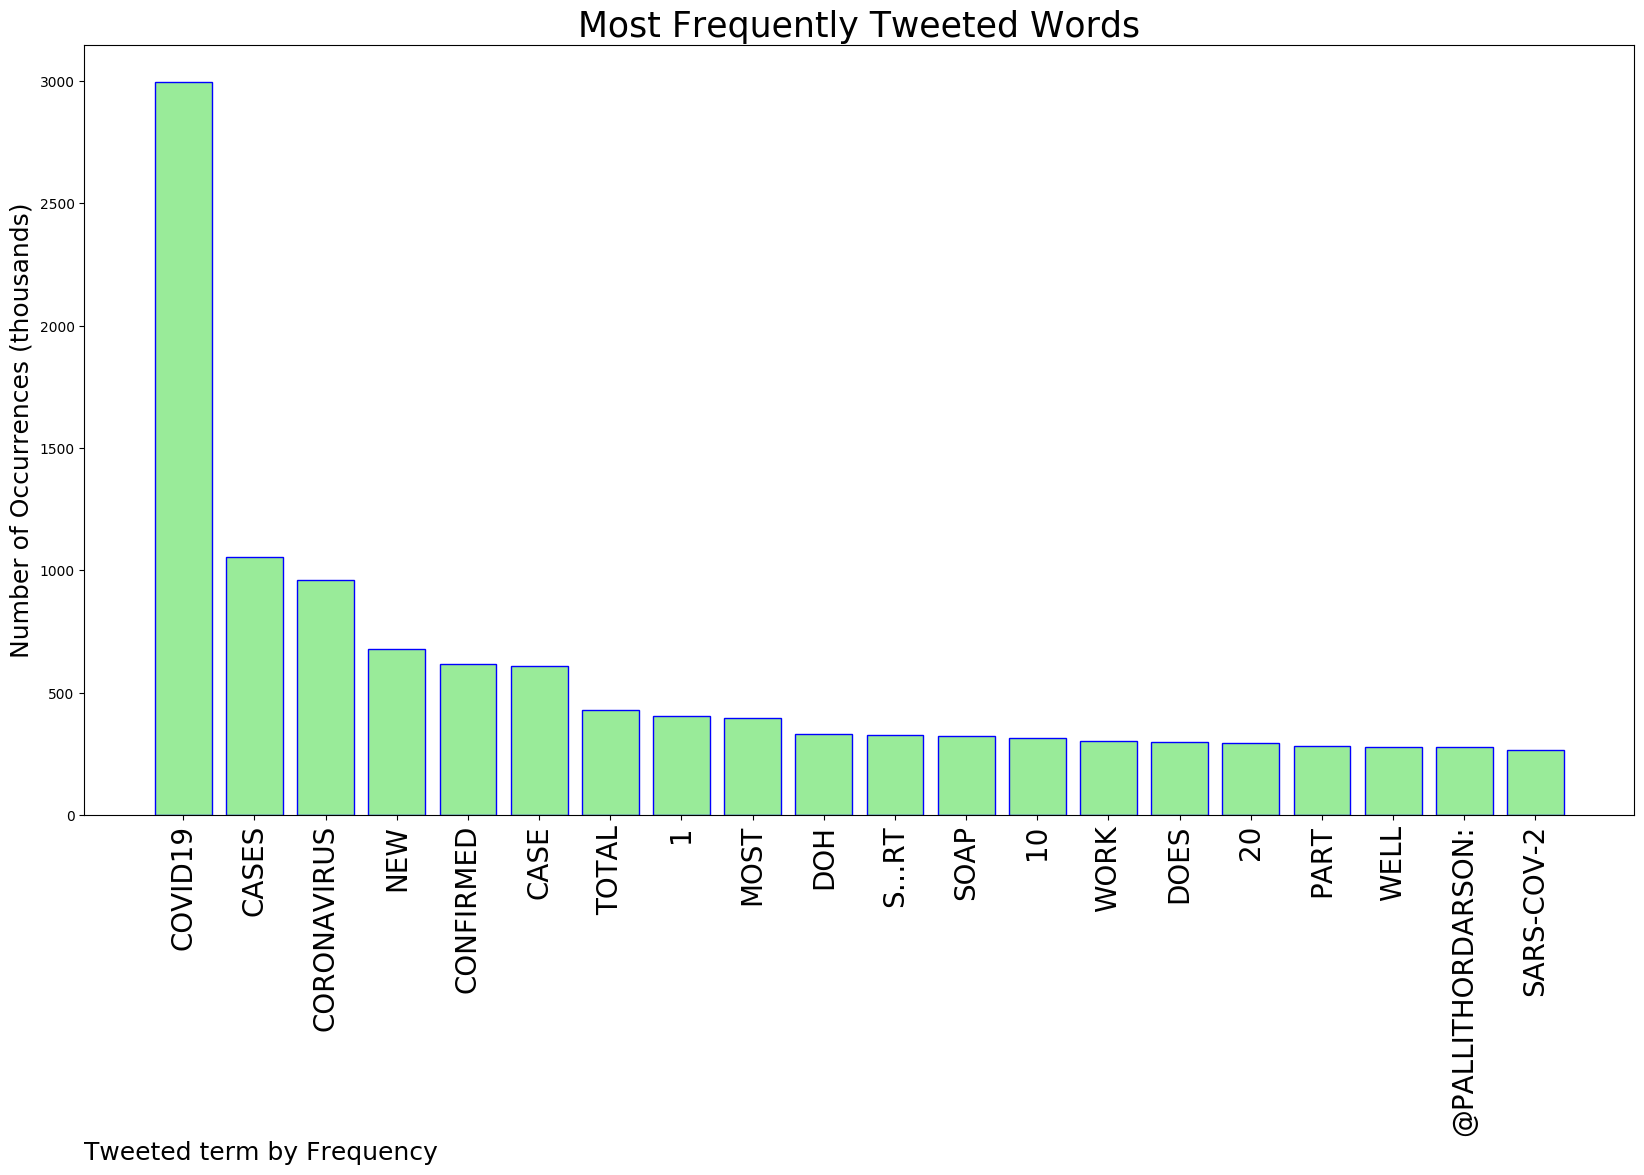
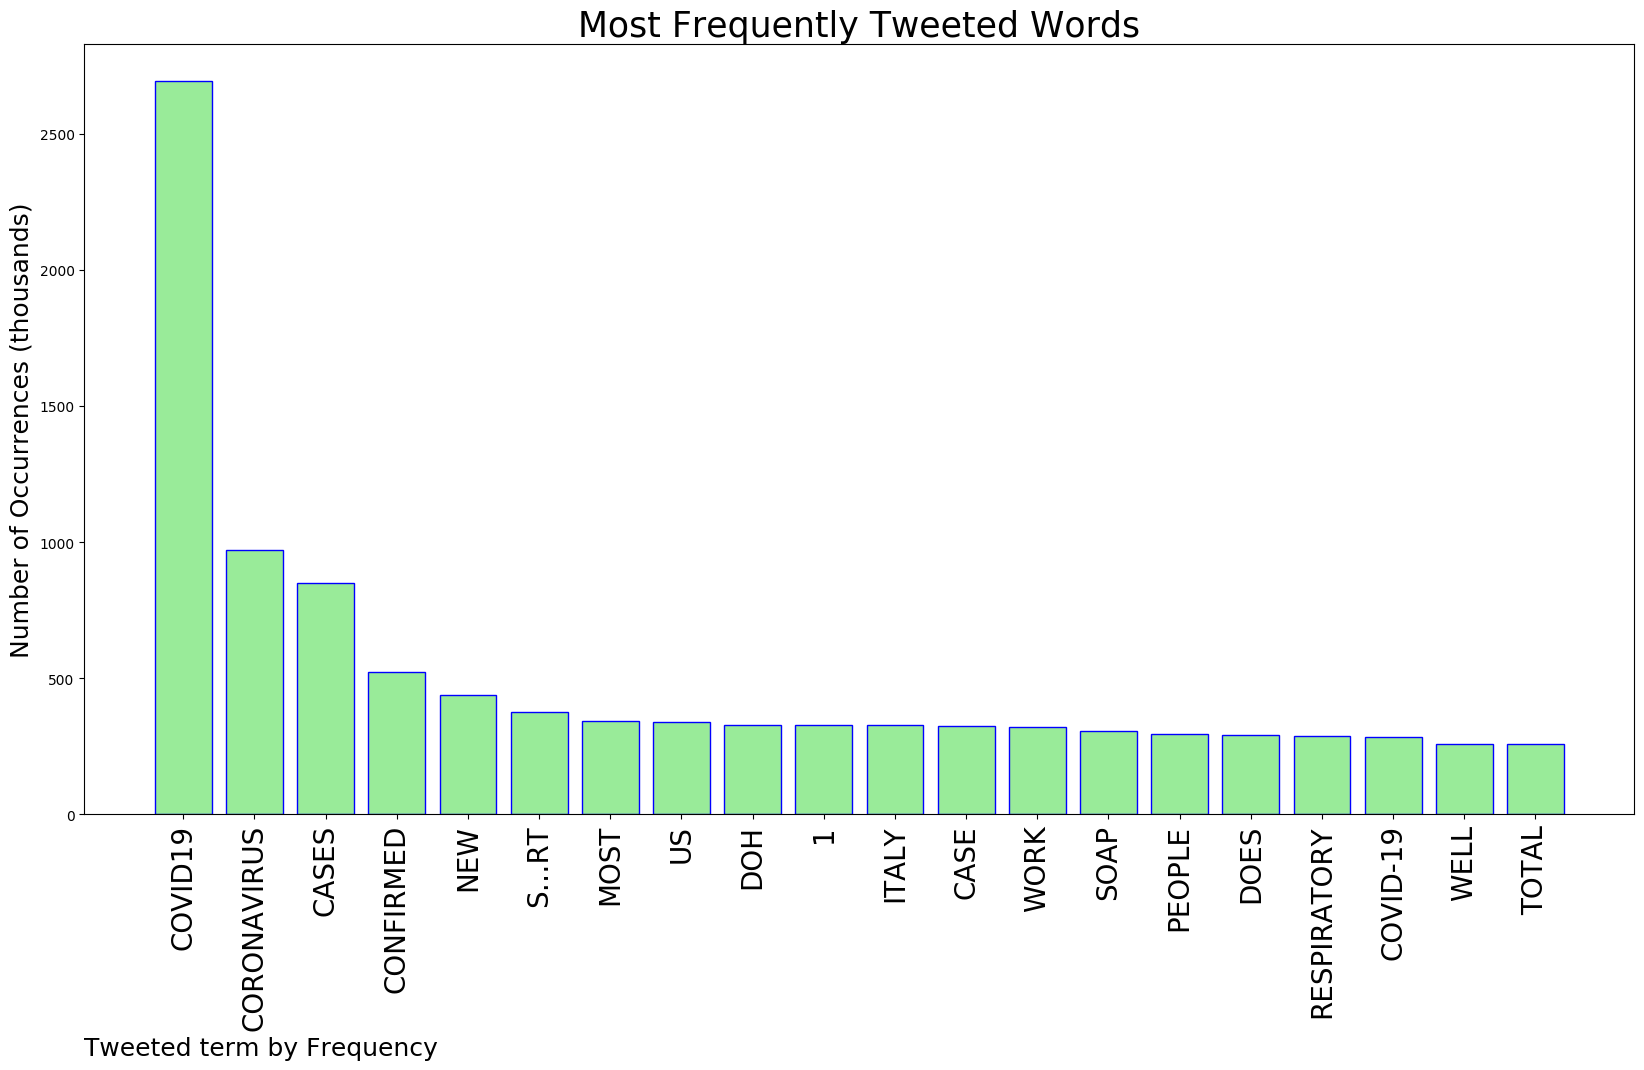
Updating with latest report

diff --git a/README.md b/README.md
@@ -15,22 +15,22 @@
 
 |                **Sample-Tweets**        |
 | :-------------: |
-| Worum es beim Thema #covid19 in den USA wirklich geht: "it seems as if in the midst of this burgeoning crisis, we'r… https://t.co/FR4LfF5THl |
-| RT @jameschau: Favorite moment from my @thechinacurrent interview with Gabriel Leung @gmleunghku?“#COVID19 is not a Chinese, South Korean… |
-| RT @SiouxsieW: If you only learn one thing about #COVID19 today make it this: everyone's job is to help FLATTEN THE CURVE. With thanks to @… |
+| RT @RepDougCollins: During my visit to the @CDC with @realDonaldTrump on Friday, I saw firsthand how the administration and our health offi… |
+| Would be helpful if they added an extra column for 'hangover' to this #COVID2019 #coronavirus #COVID19 https://t.co/YPpP8lzsWQ |
+| RT @ECDC_EU: Today's update:▪ 109 695 cases▪ 3811 fatalitiesEU/EEA/UK:▪ 11 577 cases▪ 396 deathsFind all info: https://t.co/TE7KD9… |
 
-The most popular user is: **simonstrand**
+The most popular user is: **DejvidRizov**
 <div class="alert alert-block alert-danger"> RT @LizSpecht: I think most people aren’t aware of the risk of systemic healthcare failure due to #COVID19 because they simply haven’t run…</div>
 
 ## RELATED METRICS<br>
 | Metric | Value |
 | ------------- | ------------- |
 | #1 Most tweeted to  | **PalliThordarson** |
-| #2 Most tweeted to  | **ABSCBNNews** |
-| #3 Most tweeted to  | **WHO** |
-| NewProfiles (less than 10 days) | 0.78%  |
-| Tweeters with < 10 followers  | 3.06%|
-| Tweeters with > 1000000 followers  | 0.26%  |
+| #2 Most tweeted to  | **WHO** |
+| #3 Most tweeted to  | **Allison_Burnett** |
+| NewProfiles (less than 10 days) | 0.84%  |
+| Tweeters with < 10 followers  | 3.7%|
+| Tweeters with > 1000000 followers  | 0.3%  |
 
 
 
@@ -40,25 +40,25 @@ The most popular user is: **simonstrand**
 | Popularity Rank  | Term |
 | ------------- | ------------- |
 | first  | **COVID19**  |
-| second  | **CASES**  |
-| third  | **CORONAVIRUS** |
-| fourth  | **NEW**  |
-| fifth  | **CONFIRMED**  |
+| second  | **CORONAVIRUS**  |
+| third  | **CASES** |
+| fourth  | **CONFIRMED**  |
+| fifth  | **NEW**  |
 
 
 ## Twitter Bio Analysis![image](BIO.png)
 ### SENTIMENT ANALYSIS
 ![image](sentiment.png)
-VIEWS WERE : **SUBJECTIVE**  (46.67%) & **NEGATIVELY-SUBJECTIVE** (26.67%) **OBJECTIVE** (26.67%)
+VIEWS WERE : **SUBJECTIVE**  (40.0%) & **NEGATIVELY-SUBJECTIVE** (13.33%) **OBJECTIVE** (46.67%)
 
 ### TWEET SAMPLE 
 | Random value picked from array |
 | ------------- |
-|RT @DrEricDing: Kinda embarrassing CDC... misalignment of US case numbers is likely a combination of: 1) how you count repatriated US 💎 Pri… |
+|RT @davidgura: FYI: Calling #COVID19 the "Wuhan Virus" is racist. |
 
 ### MOST RETWEETED 
 
-| The most retweeted user is: **simonstrand**  |
+| The most retweeted user is: **DejvidRizov**  |
 | ------------- |
 | RT @LizSpecht: I think most people aren’t aware of the risk of systemic healthcare failure due to #COVID19 because they simply haven’t run… |
 
